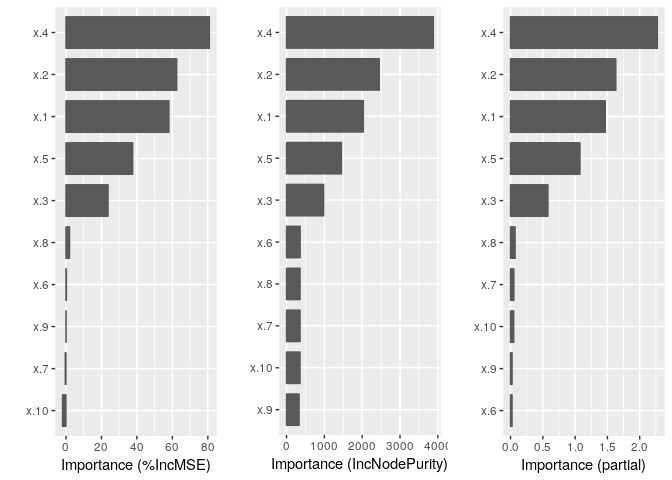
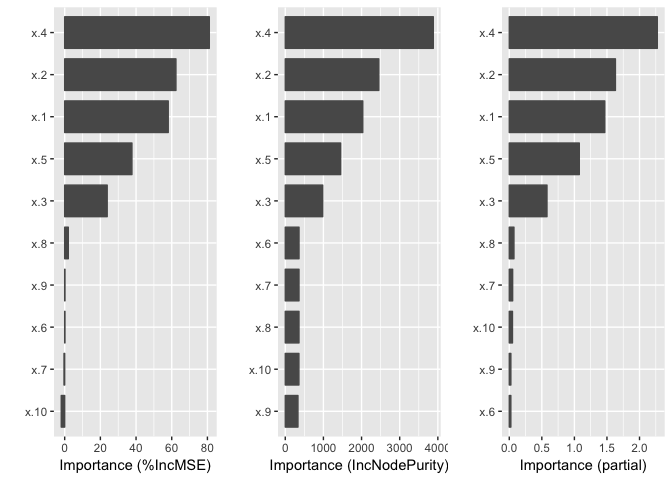
change warning mssg

diff --git a/README.md b/README.md
@@ -43,16 +43,16 @@ vi(rf, type = 1)
 #> # A tibble: 10 x 2
 #>    Variable Importance
 #>    <chr>         <dbl>
-#>  1 x.4          80.9  
-#>  2 x.2          62.5  
-#>  3 x.1          58.1  
+#>  1 x.4          81.1  
+#>  2 x.2          62.3  
+#>  3 x.1          58.0  
 #>  4 x.5          37.7  
 #>  5 x.3          23.8  
-#>  6 x.8           2.03 
-#>  7 x.6           0.249
-#>  8 x.9           0.107
-#>  9 x.7         - 0.412
-#> 10 x.10        - 1.93
+#>  6 x.8           2.02 
+#>  7 x.9           0.159
+#>  8 x.6           0.150
+#>  9 x.7         - 0.374
+#> 10 x.10        - 1.92
 
 # Use `vip()` to construct ggplot2-based variable importance plots
 p1 <- vip(rf, type = 1)
